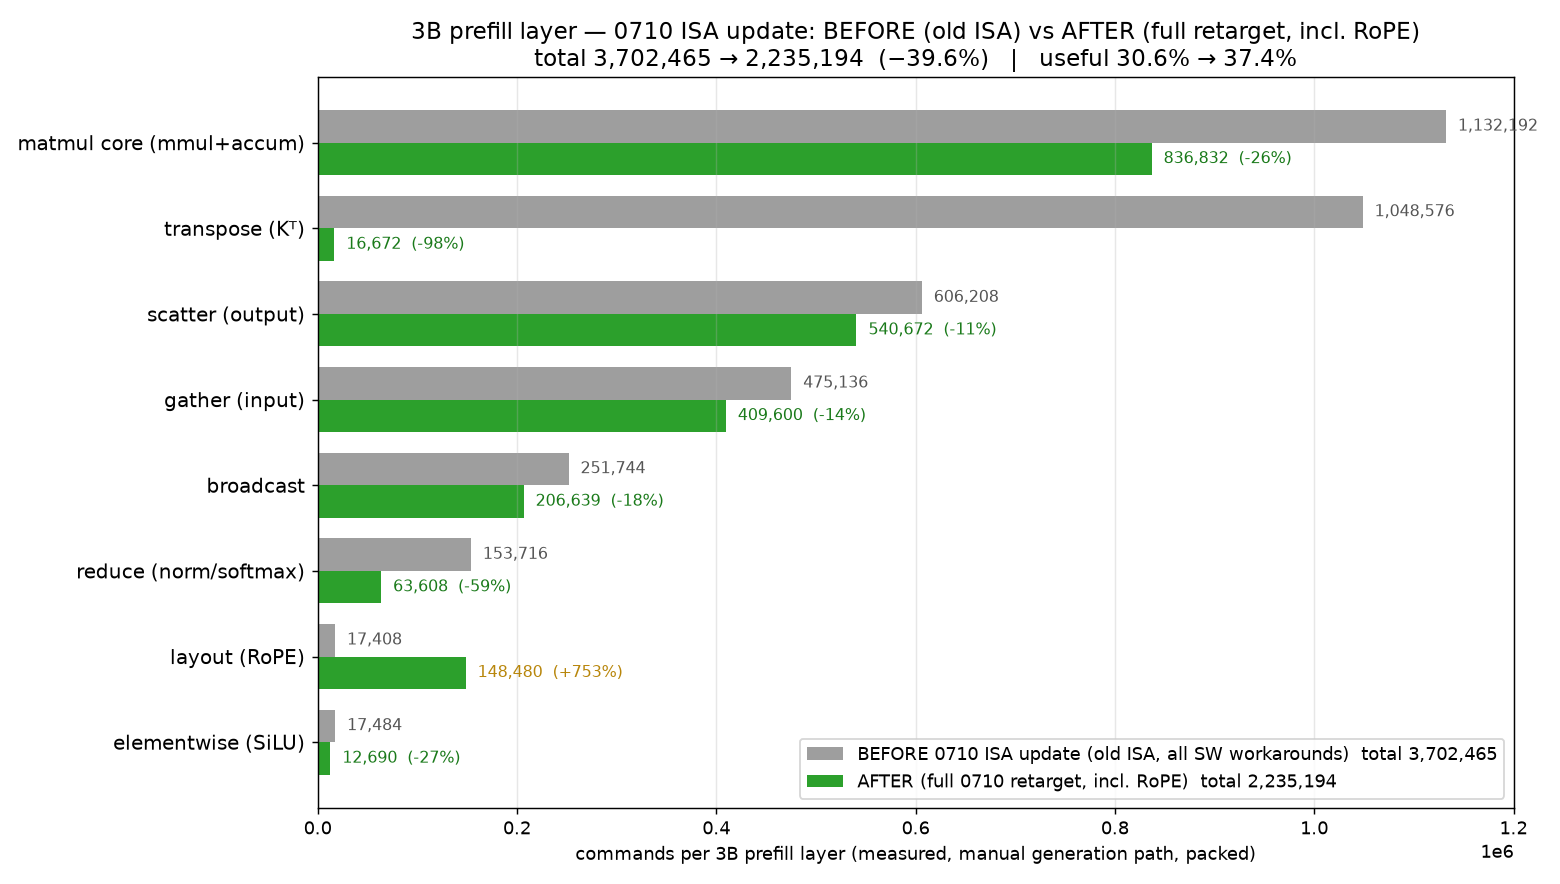
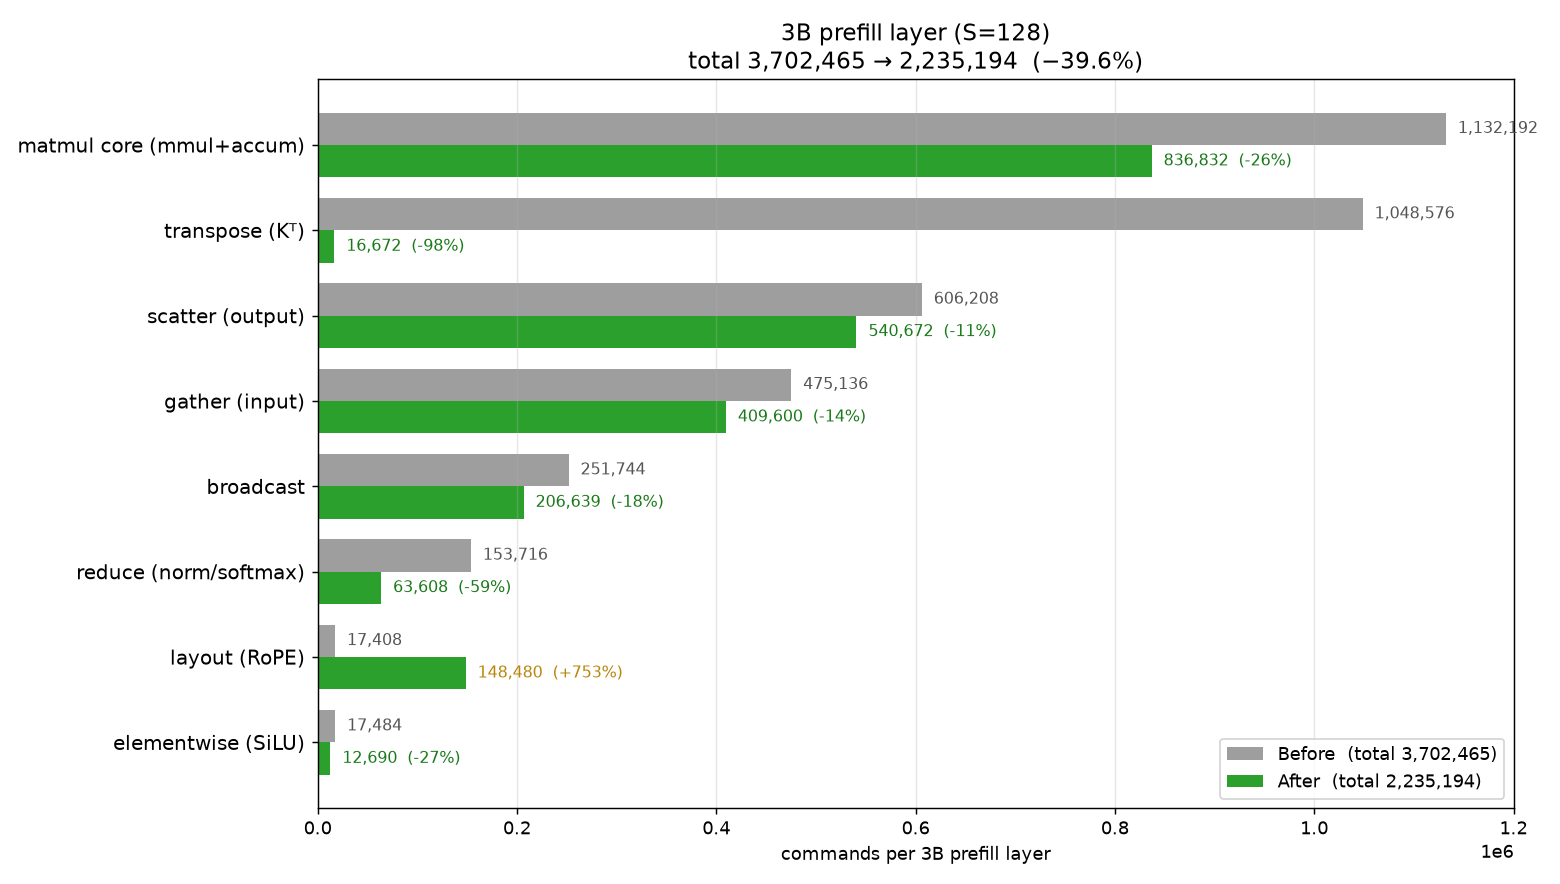
report figs: simplify before/after graph (legend/title/x-axis)
Legend -> "Before (total ...)" / "After (total ...)"; title -> "3B prefill
layer (S=128)" + total change only (drop useful%); x-axis -> "commands per 3B
prefill layer".

diff --git a/report/figs/0710/plot_before_after.py b/report/figs/0710/plot_before_after.py
@@ -14,8 +14,6 @@ HERE = os.path.dirname(os.path.abspath(__file__))
 DS = json.load(open(os.path.join(HERE, "measurements.json")))["datasets"]
 B = DS["manual_old_isa"]["roles"]; A = DS["manual_signinv_rope"]["roles"]
 TB = DS["manual_old_isa"]["total"]; TA = DS["manual_signinv_rope"]["total"]
-uB = 100*(B.get("mmul", 0)+B.get("accum", 0))/TB
-uA = 100*(A.get("mmul", 0)+A.get("accum", 0))/TA
 
 # merge mmul+accum into "matmul core" (MAC shifts the tile-save tag between them)
 def merged(r):
@@ -31,10 +29,8 @@ after = np.array([ma[k] for k in labels], float)
 y = np.arange(len(labels))[::-1]; h = 0.38
 
 fig, ax = plt.subplots(figsize=(12, 6.8))
-ax.barh(y + h/2, before, h, color="#9e9e9e",
-        label=f"BEFORE 0710 ISA update (old ISA, all SW workarounds)  total {TB:,}")
-ax.barh(y - h/2, after, h, color="#2ca02c",
-        label=f"AFTER (full 0710 retarget, incl. RoPE)  total {TA:,}")
+ax.barh(y + h/2, before, h, color="#9e9e9e", label=f"Before  (total {TB:,})")
+ax.barh(y - h/2, after, h, color="#2ca02c", label=f"After  (total {TA:,})")
 for i, (bf, af) in enumerate(zip(before, after)):
     yy = y[i]
     ax.text(bf + 12000, yy + h/2, f"{bf:,.0f}", va="center", fontsize=9, color="#555")
@@ -43,10 +39,9 @@ for i, (bf, af) in enumerate(zip(before, after)):
     col = "#1a7a1a" if d < -1 else ("#b8860b" if d > 1 else "#888")
     ax.text(af + 12000, yy - h/2, f"{af:,.0f}  ({tag})", va="center", fontsize=9, color=col)
 ax.set_yticks(y); ax.set_yticklabels(labels, fontsize=11)
-ax.set_xlabel("commands per 3B prefill layer (measured, manual generation path, packed)")
-ax.set_title(f"3B prefill layer — 0710 ISA update: BEFORE (old ISA) vs AFTER (full retarget, incl. RoPE)\n"
-             f"total {TB:,} → {TA:,}  (−{100*(1-TA/TB):.1f}%)   |   useful {uB:.1f}% → {uA:.1f}%",
-             fontsize=12.5)
+ax.set_xlabel("commands per 3B prefill layer")
+ax.set_title(f"3B prefill layer (S=128)\n"
+             f"total {TB:,} → {TA:,}  (−{100*(1-TA/TB):.1f}%)", fontsize=13)
 ax.legend(loc="lower right", fontsize=10)
 ax.set_xlim(0, 1_200_000); ax.grid(axis="x", alpha=0.3)
 plt.tight_layout()
